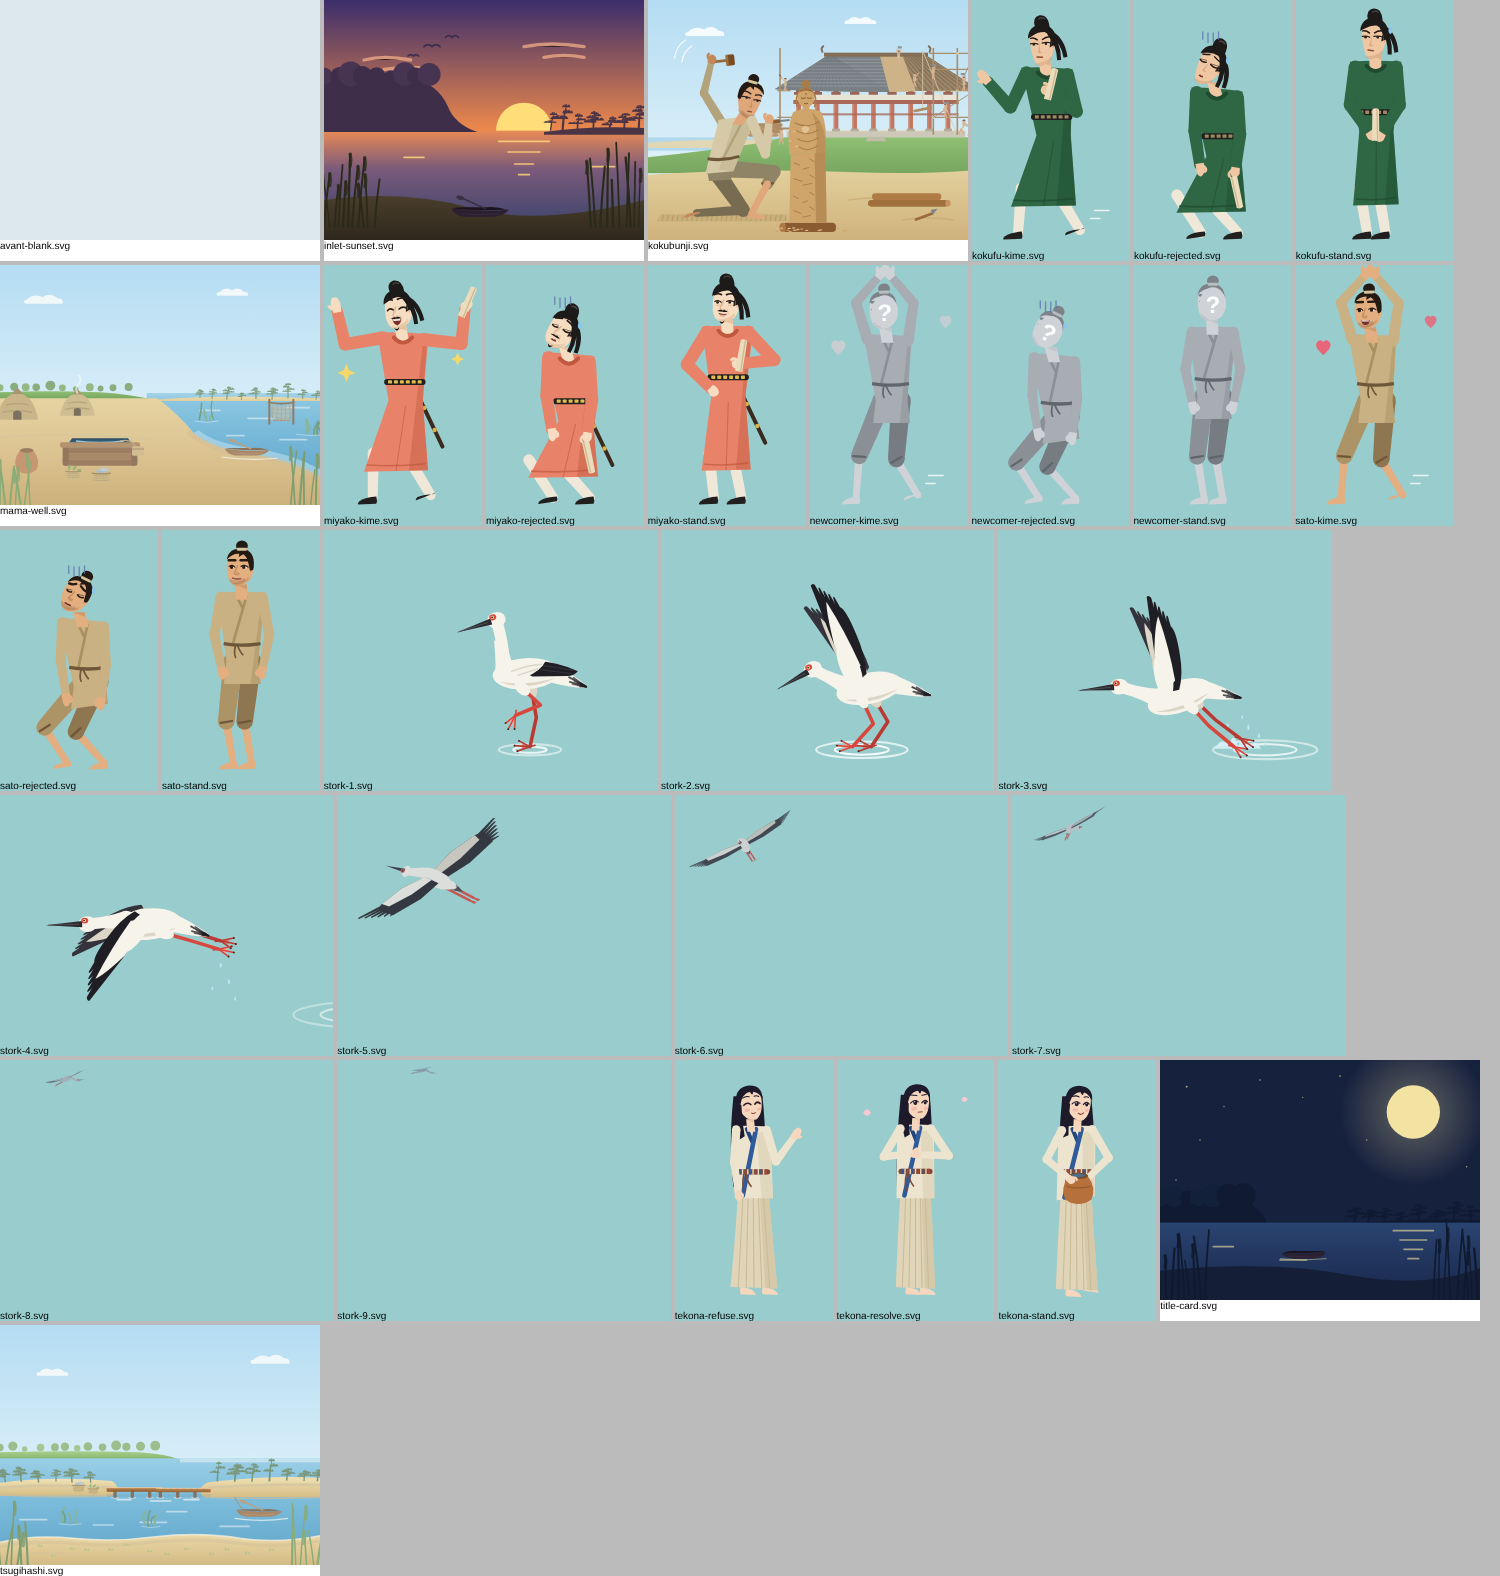
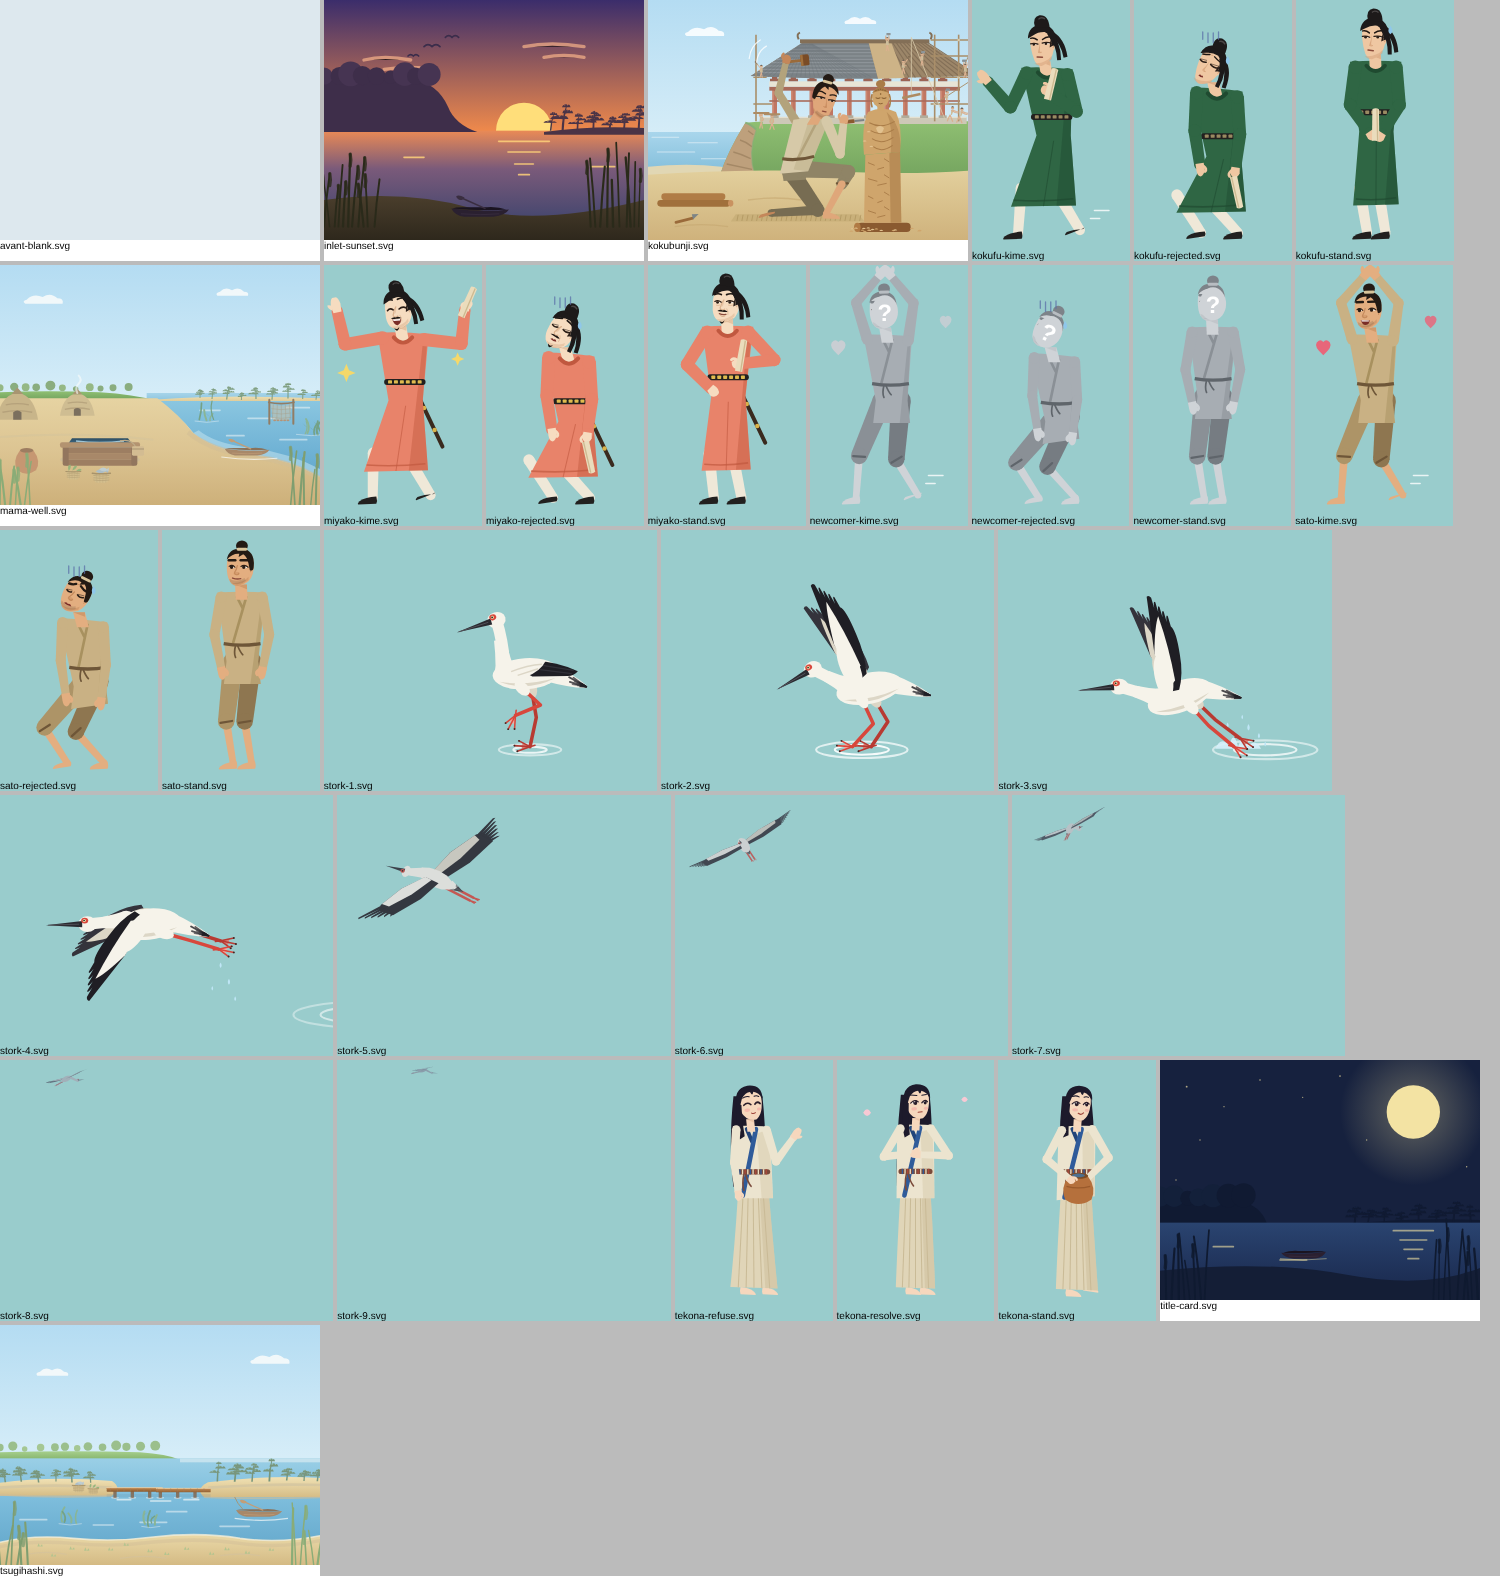
fix(tekona): 国分寺の場面を、崖のある小高い丘の上の金堂と左奥の海の構図にする
- 金堂を上が平らな小高い丘の上に上げ、金堂の左下を切り立った崖にする
- 崖の向こう（左手奥）に遠くの海と浜を見せる
- 仏師と仏像を画面の中央よりやや右へ移し、材木と道具を手前の左へ移す
版4の生成スクリプト・素材・一覧画像・版の記録と stories/tekona/assets を更新。

Claude-Session: https://claude.ai/code/session_011SEzgWsvxN8M8X3xfVu3am

Changed region(s): [[0.4293, 0.0, 0.644, 0.1555]]

diff --git a/resources/tekona-workshop/art-versions/README.md b/resources/tekona-workshop/art-versions/README.md
@@ -62,11 +62,11 @@
   * 小道具：岸に引き上げた丸木舟と櫂、竿に干した網と土錘、井戸のそばの草で編んだかご（魚・菜）、
     継橋のたもとにつないだ丸木舟と橋の上のかご、夕日と月夜の入江の丸木舟（シルエット）。人物と重ならない位置に置いています。
 * **国分寺の建設の背景**（`kokubunji.svg`、480×360）：考証メモ1.5（天平13年の国分寺建立の詔のあと、国府台の近くに下総国分寺が建てられた）にもとづく場面。
-  * 遠景：丘の上で、石の基壇に丹塗りの柱を立てた大きな金堂を建てている。屋根は左半分を瓦でふき終え、右半分は垂木がむき出し。
+  * 遠景：上が平らな小高い丘の上で、石の基壇に丹塗りの柱を立てた大きな金堂を建てている。金堂の左下は切り立った崖で、崖の向こう（左手奥）に遠くの海と浜が見える。屋根は左半分を瓦でふき終え、右半分は垂木がむき出し。
     丸太を縄で縛った足場の上で、瓦を運ぶ・渡す・ふく労務者、綱で材を引き上げる労務者、丸太をかつぐ労務者を小さく描いた。遠景は空気の色へ寄せて淡くしている。
-  * 手前：むしろに片ひざをついて座り（手前の右ひざを立て、すねは足先へ下ろす）、上体を乗り出して顔を仏像に近づけ、
+  * 手前（画面の中央よりやや右）：むしろに片ひざをついて座り（手前の右ひざを立て、すねは足先へ下ろす）、上体を乗り出して顔を仏像に近づけ、
     目をわずかに細めて口を静かに結んだ真剣な表情（眉は寄せすぎず、眉間のしわは描かない）で、奥の右腕で木槌を頭の後ろへ振り上げ、手前の左腕でノミの刃先を仏像の胸に当てる仏師。
-    仏像は木の立像で、上半身は肉髻・螺髪・長い耳たぶ・伏し目・白毫・衣のひだまで彫り出し、下半身は荒彫りの角材のままにして、まわりに木くずを散らした。
+    材木と道具は手前の左に置いた。仏像は木の立像で、上半身は肉髻・螺髪・長い耳たぶ・伏し目・白毫・衣のひだまで彫り出し、下半身は荒彫りの角材のままにして、まわりに木くずを散らした。
   * 仏師は求婚者と同じ骨格の描き方（`generator/chars.cjs`の部品を`generator/kokubunji.cjs`から使う）で描いている。台本と`project-assets-dsl4.yml`にはまだ登録していません。
 * **コウノトリの9枚絵**（`stork-1`〜`stork-9`、320×240）：水辺から飛び立つアニメーション。大型の鳥なので真上には跳ばず、次の順に動きます。
   1. 飛ぶ前の姿勢：あごを少し引き、翼を体に引き寄せてたたみ、重心を高くして立つ。手前の足を軽く上げ、奥の足に力を込めてまっすぐ立ち、遠く前方を見る。
